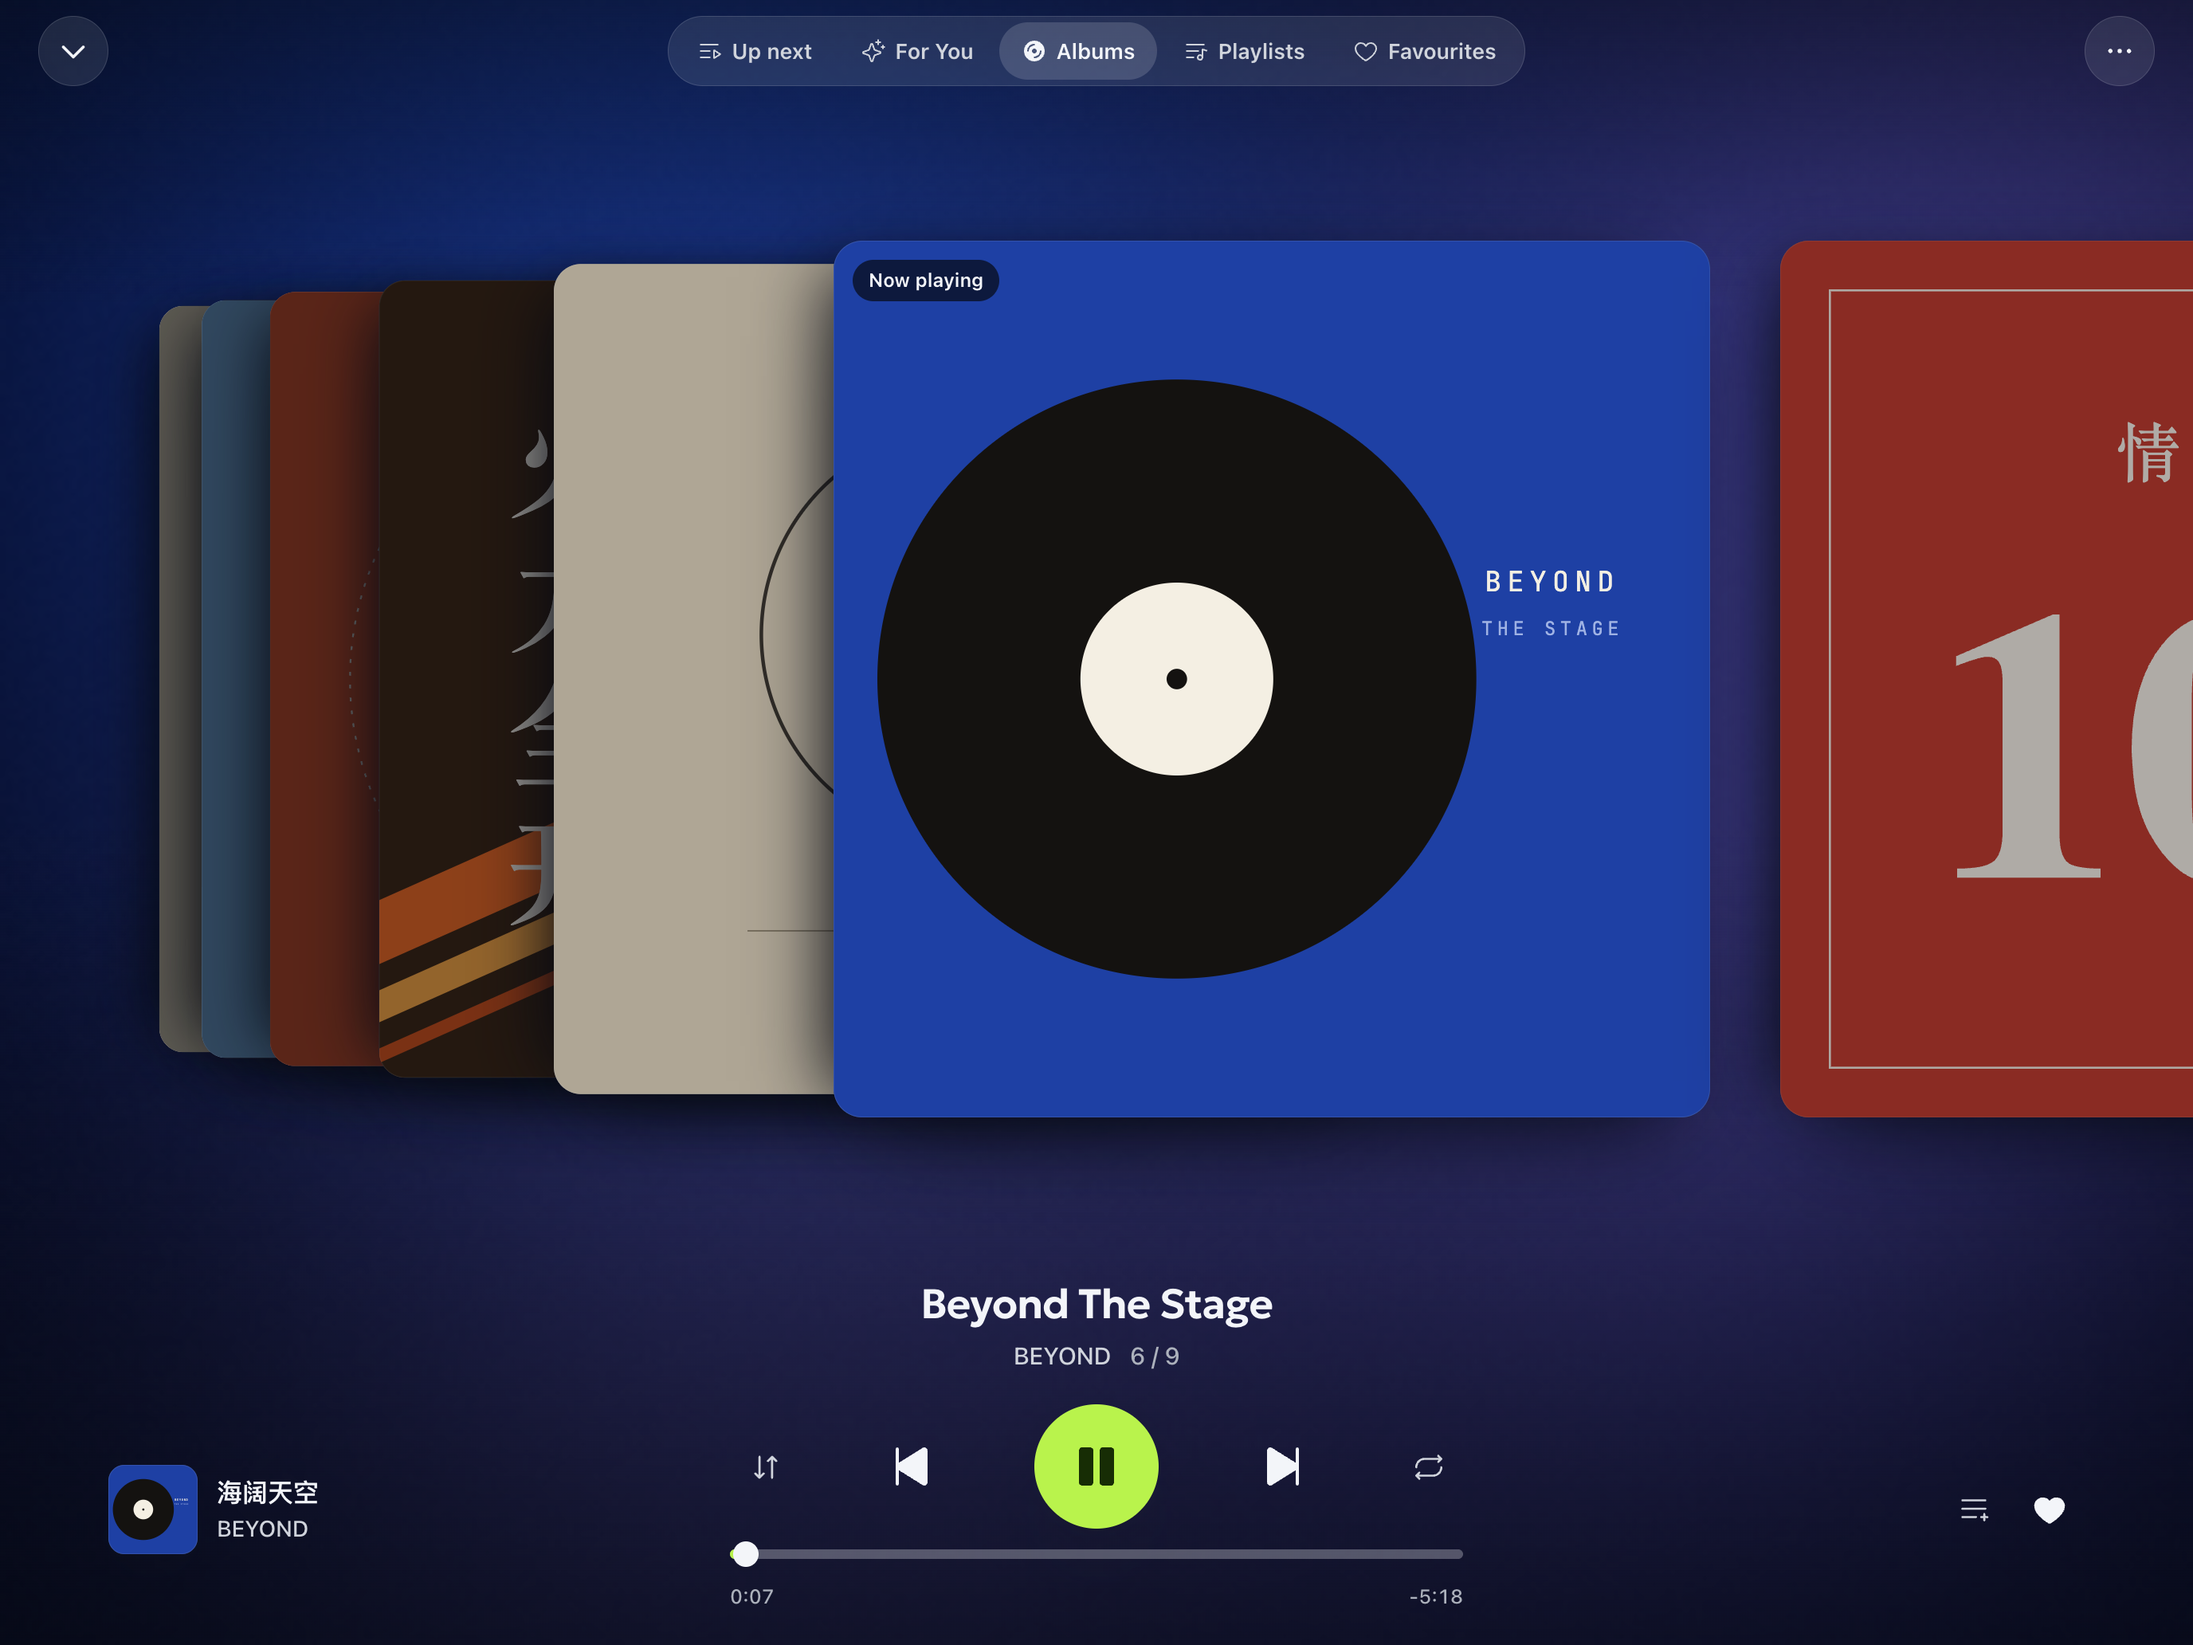
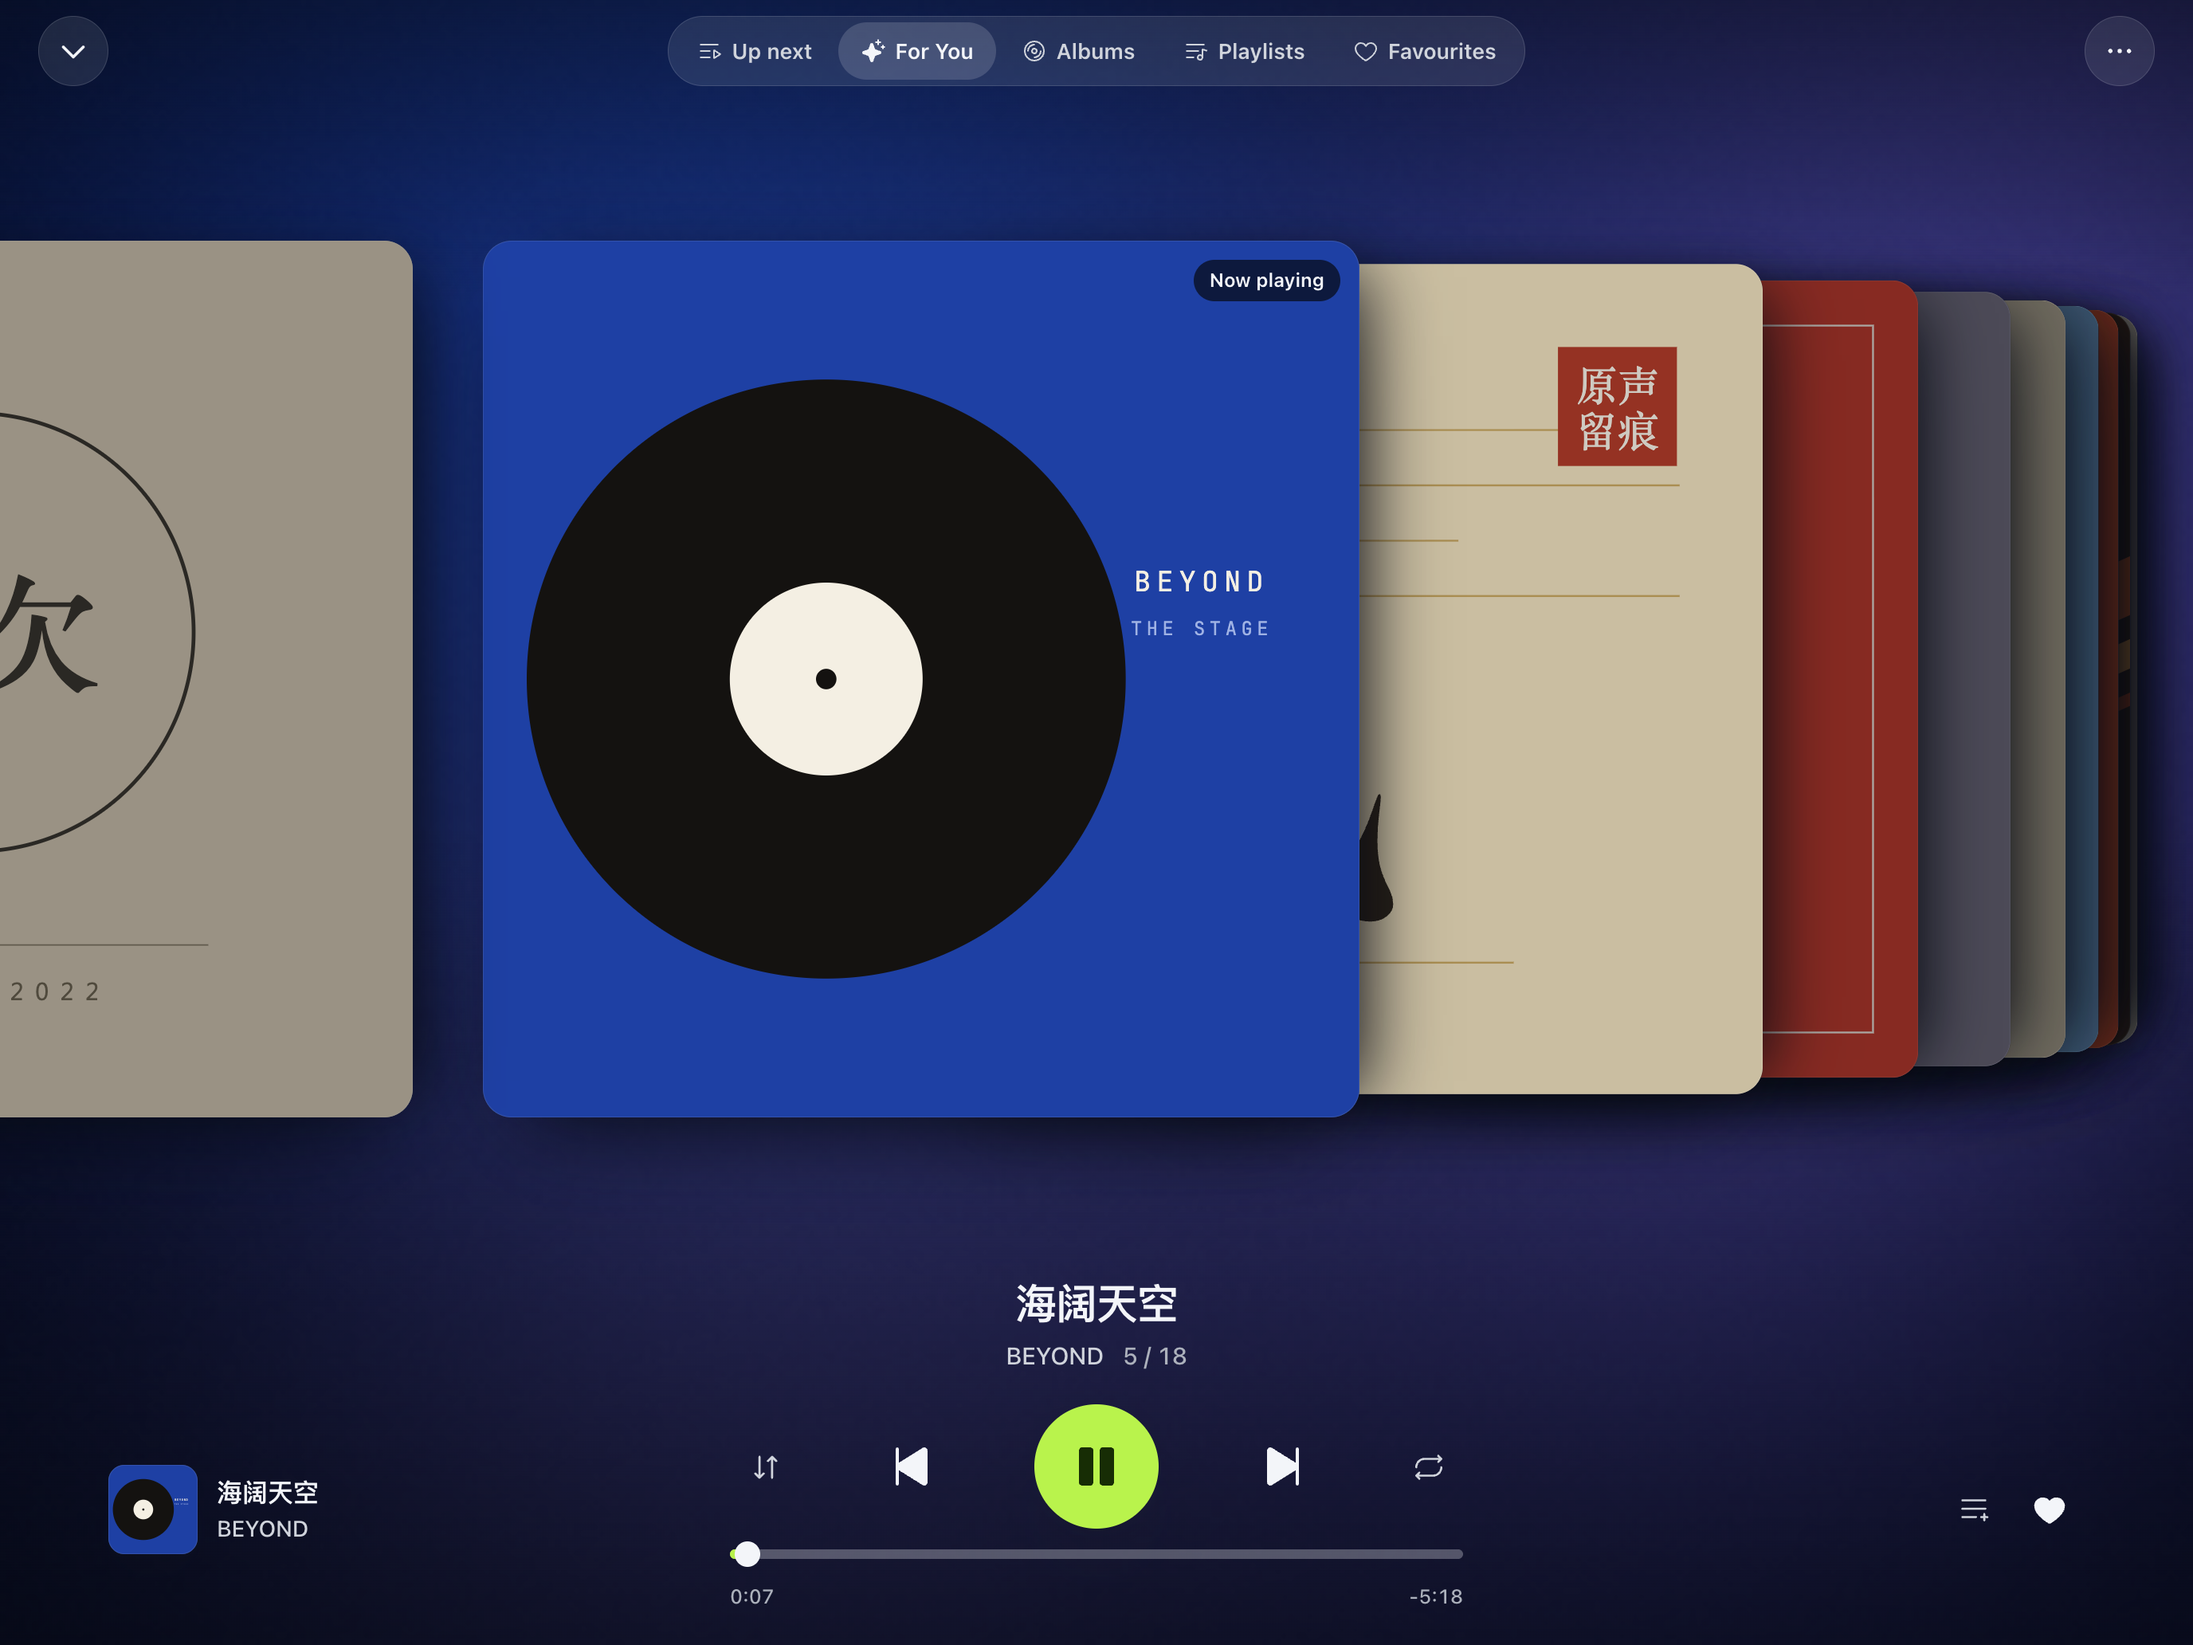
docs: 卡片叠镜像以后的样子——DESIGN.md 写明为什么后面的叠在右边，README / 官网换图和说明

diff --git a/website/script.js b/website/script.js
@@ -221,7 +221,7 @@
     },
     browse: {
       src: 'assets/cards.webp', w: 1376, h: 1032, room: 'player', orient: 'landscape',
-      alt: ['iPad 横屏的卡片叠：专辑封面往左叠成一摞，正在放的那张在最前面', 'Cards in landscape on iPad: album covers fanned to the left, the playing album in front'],
+      alt: ['iPad 横屏的卡片叠：正在放的那首在最前面，推荐的歌往右叠成一摞，左边露出前一张', 'Cards in landscape on iPad: the playing track in front, For You stacked up to the right, the previous card peeking in on the left'],
     },
     phone: {
       src: 'assets/phone-player.webp', w: 1179, h: 2556, room: 'phone', orient: 'portrait',

diff --git a/README.md b/README.md
@@ -68,7 +68,7 @@ the source renders, the prompts behind them and the local cut-out script are in 
 <table>
 <tr>
 <td width="50%"><img src="docs/screenshots/v6/player.png" alt="Now Playing in landscape: a light field sampled from the cover, the cover and controls, large lyrics" /></td>
-<td width="50%"><img src="docs/screenshots/v6/cards.png" alt="Cards in landscape on iPad: album covers fanned to the left, the playing album in front, a mini player underneath" /></td>
+<td width="50%"><img src="docs/screenshots/v6/cards.png" alt="Cards in landscape on iPad: the playing track in front, For You stacked up to the right, the previous card peeking in on the left, a mini player underneath" /></td>
 </tr>
 <tr>
 <td><b>Now Playing</b>: in a landscape window the cover and controls sit on the left, lyrics stay on the right; tap any line to jump to it.</td>

diff --git a/README_CN.md b/README_CN.md
@@ -67,7 +67,7 @@ N1KO MUSIC 想做的是一个你愿意一直开着的播放器。v6 把界面从
 <table>
 <tr>
 <td width="50%"><img src="docs/screenshots/v6/player.png" alt="横屏的正在播放：封面取色的光场、封面和控制、大字歌词" /></td>
-<td width="50%"><img src="docs/screenshots/v6/cards.png" alt="iPad 横屏的卡片叠：专辑封面往左叠成一摞，正在放的那张在最前面，下面是迷你播放条" /></td>
+<td width="50%"><img src="docs/screenshots/v6/cards.png" alt="iPad 横屏的卡片叠：正在放的那首在最前面，推荐的歌往右叠成一摞，左边露出前一张，下面是迷你播放条" /></td>
 </tr>
 <tr>
 <td><b>正在播放</b>：横着的窗口左边是封面和控制，右边一直摆着歌词，点任意一行跳过去。</td>
